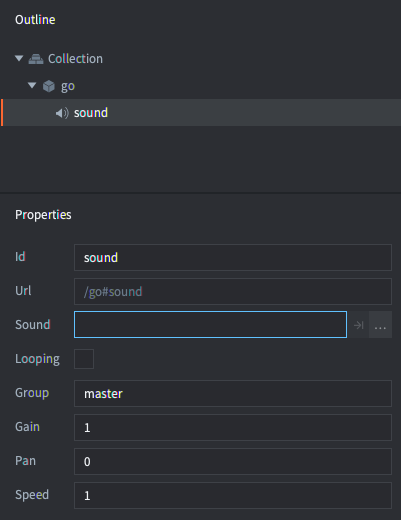
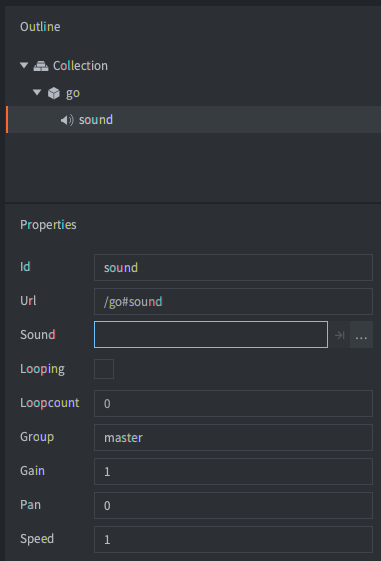
Added documentation on sound loop count

diff --git a/docs/en/manuals/sound.md b/docs/en/manuals/sound.md
@@ -27,7 +27,10 @@ The created component has a set of properties that should be set:
 : Should be set to a sound file in your project. The file should be in _Wave_ or _Ogg Vorbis_ format. Defold supports sound files saved at 16bit bit depth and with a sampling rate of 44100.
 
 *Looping*
-: If checked the sound will play back in a loop until explicitly stopped.
+: If checked the sound will play back in _Loopcount_ times or until explicitly stopped.
+
+*Loopcount*
+: The number of times a looping sound will play before stopping (0 means the sound should loop until explicitly stopped).
 
 *Group*
 : The name of the sound group the sound should belong to. If this property is left empty, the sound will be assigned to the built-in "master" group.
